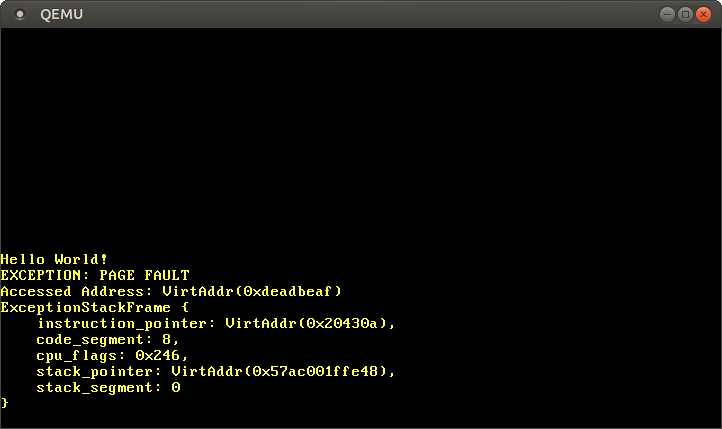
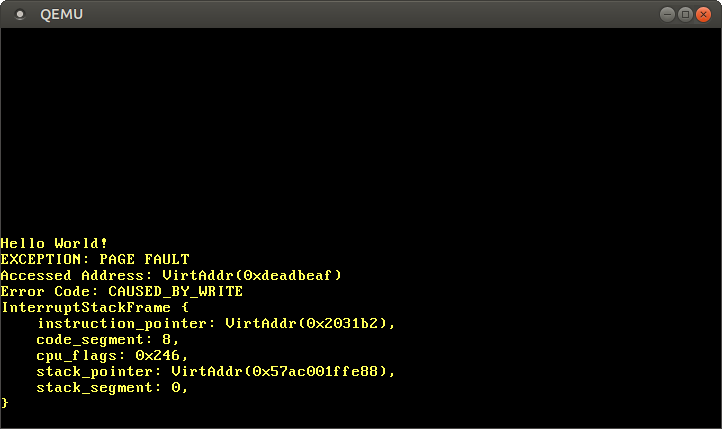
Update paging introduction post to use page fault error code
We previously did not use the error code because of https://github.com/phil-opp/blog_os/issues/513, which is now fixed.

Changed region(s): [[0.0, 0.5455, 0.4571, 0.7273], [0.4875, 0.8485, 0.518, 0.8788], [0.4875, 0.7273, 0.518, 0.7576]]

diff --git a/blog/content/second-edition/posts/08-paging-introduction/index.md b/blog/content/second-edition/posts/08-paging-introduction/index.md
@@ -278,18 +278,19 @@ use x86_64::structures::idt::PageFaultErrorCode;
 
 extern "x86-interrupt" fn page_fault_handler(
     stack_frame: &mut InterruptStackFrame,
-    _error_code: PageFaultErrorCode,
+    error_code: PageFaultErrorCode,
 ) {
     use x86_64::registers::control::Cr2;
 
     println!("EXCEPTION: PAGE FAULT");
     println!("Accessed Address: {:?}", Cr2::read());
+    println!("Error Code: {:?}", error_code);
     println!("{:#?}", stack_frame);
     hlt_loop();
 }
 ```
 
-The [`CR2`] register is automatically set by the CPU on a page fault and contains the accessed virtual address that caused the page fault. We use the [`Cr2::read`] function of the `x86_64` crate to read and print it. Normally the [`PageFaultErrorCode`] type would provide more information about the type of memory access that caused the page fault, but there is currently an [LLVM bug] that passes an invalid error code, so we ignore it for now. We can't continue execution without resolving the page fault, so we enter a [`hlt_loop`] at the end.
+The [`CR2`] register is automatically set by the CPU on a page fault and contains the accessed virtual address that caused the page fault. We use the [`Cr2::read`] function of the `x86_64` crate to read and print it. The [`PageFaultErrorCode`] type provides more information about the type of memory access that caused the page fault, for example whether it was caused by a read or write operation. For this reason we print it too. We can't continue execution without resolving the page fault, so we enter a [`hlt_loop`] at the end.
 
 [`CR2`]: https://en.wikipedia.org/wiki/Control_register#CR2
 [`Cr2::read`]: https://docs.rs/x86_64/0.7.0/x86_64/registers/control/struct.Cr2.html#method.read
@@ -323,27 +324,39 @@ pub extern "C" fn _start() -> ! {
 
 When we run it, we see that our page fault handler is called:
 
-![EXCEPTION: Page Fault, Accessed Address: VirtAddr(0xdeadbeaf), InterruptStackFrame: {…}](qemu-page-fault.png)
+![EXCEPTION: Page Fault, Accessed Address: VirtAddr(0xdeadbeaf), Error Code: CAUSED_BY_WRITE, InterruptStackFrame: {…}](qemu-page-fault.png)
 
-The `CR2` register indeed contains `0xdeadbeaf`, the address that we tried to access.
+The `CR2` register indeed contains `0xdeadbeaf`, the address that we tried to access. The error code tells us through the [`CAUSED_BY_WRITE`] that the fault occurred while trying to perform a write operation. It tells us even more through the [bits that are _not_ set][`PageFaultErrorCode`]. For example, the fact that the `PROTECTION_VIOLATION` flag is not set means that the page fault occurred because the target page wasn't present.
 
-We see that the current instruction pointer is `0x20430a`, so we know that this address points to a code page. Code pages are mapped read-only by the bootloader, so reading from this address works but writing causes a page fault. You can try this by changing the `0xdeadbeaf` pointer to `0x20430a`:
+[`CAUSED_BY_WRITE`]: https://docs.rs/x86_64/0.7.0/x86_64/structures/idt/struct.PageFaultErrorCode.html#associatedconstant.CAUSED_BY_WRITE
+
+We see that the current instruction pointer is `0x2031b2`, so we know that this address points to a code page. Code pages are mapped read-only by the bootloader, so reading from this address works but writing causes a page fault. You can try this by changing the `0xdeadbeaf` pointer to `0x2031b2`:
 
 ```rust
 // Note: The actual address might be different for you. Use the address that
 // your page fault handler reports.
-let ptr = 0x20430a as *mut u32;
-// read from a code page -> works
+let ptr = 0x2031b2 as *mut u32;
+
+// read from a code page
 unsafe { let x = *ptr; }
-// write to a code page -> page fault
+println!("read worked");
+
+// write to a code page
 unsafe { *ptr = 42; }
+println!("write worked");
 ```
 
-By commenting out the last line, we see that the read access works, but the write access causes a page fault.
+By commenting out the last line, we see that the read access works, but the write access causes a page fault:
+
+![QEMU with output: "read worked, EXCEPTION: Page Fault, Accessed Address: VirtAddr(0x2031b2), Error Code: PROTECTION_VIOLATION | CAUSED_BY_WRITE, InterruptStackFrame: {…}"](qemu-page-fault-protection.png)
+
+We see that the _"read worked"_ message is printed, which indicates that the read operation did not cause any errors. However, instead of the _"write worked"_ message a page fault occurs. This time the [`PROTECTION_VIOLATION`] flag is set in addition to the [`CAUSED_BY_WRITE`] flag, which indicates that the page was present, but the operation was not allowed on it. In this case, writes to the page are not allowed since code pages are mapped as read-only.
+
+[`PROTECTION_VIOLATION`]: https://docs.rs/x86_64/0.7.0/x86_64/structures/idt/struct.PageFaultErrorCode.html#associatedconstant.PROTECTION_VIOLATION
 
 ### Accessing the Page Tables
 
-Let's try to take a look at the page tables that our kernel runs on:
+Let's try to take a look at the page tables that define how our kernel is mapped:
 
 ```rust
 // in src/main.rs
